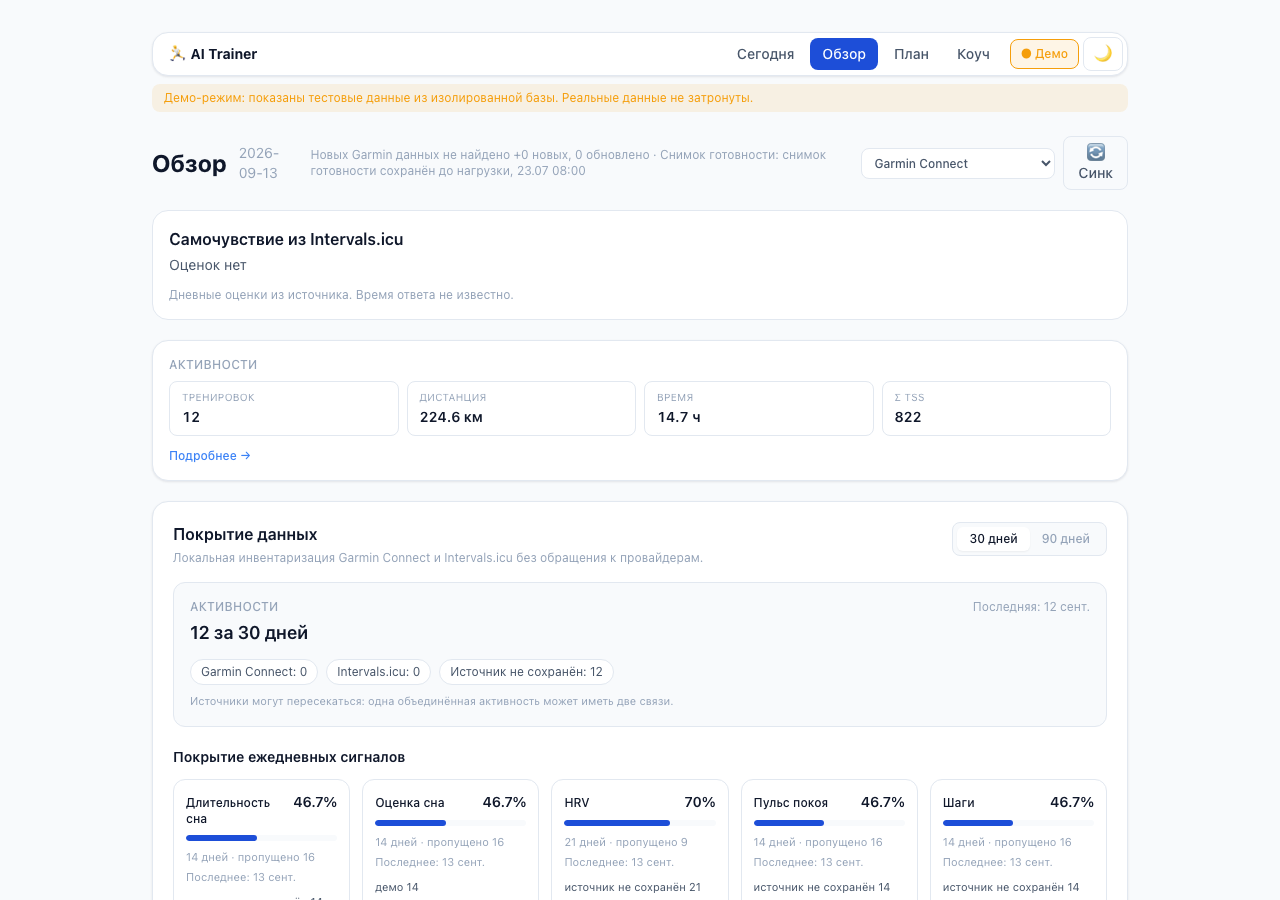
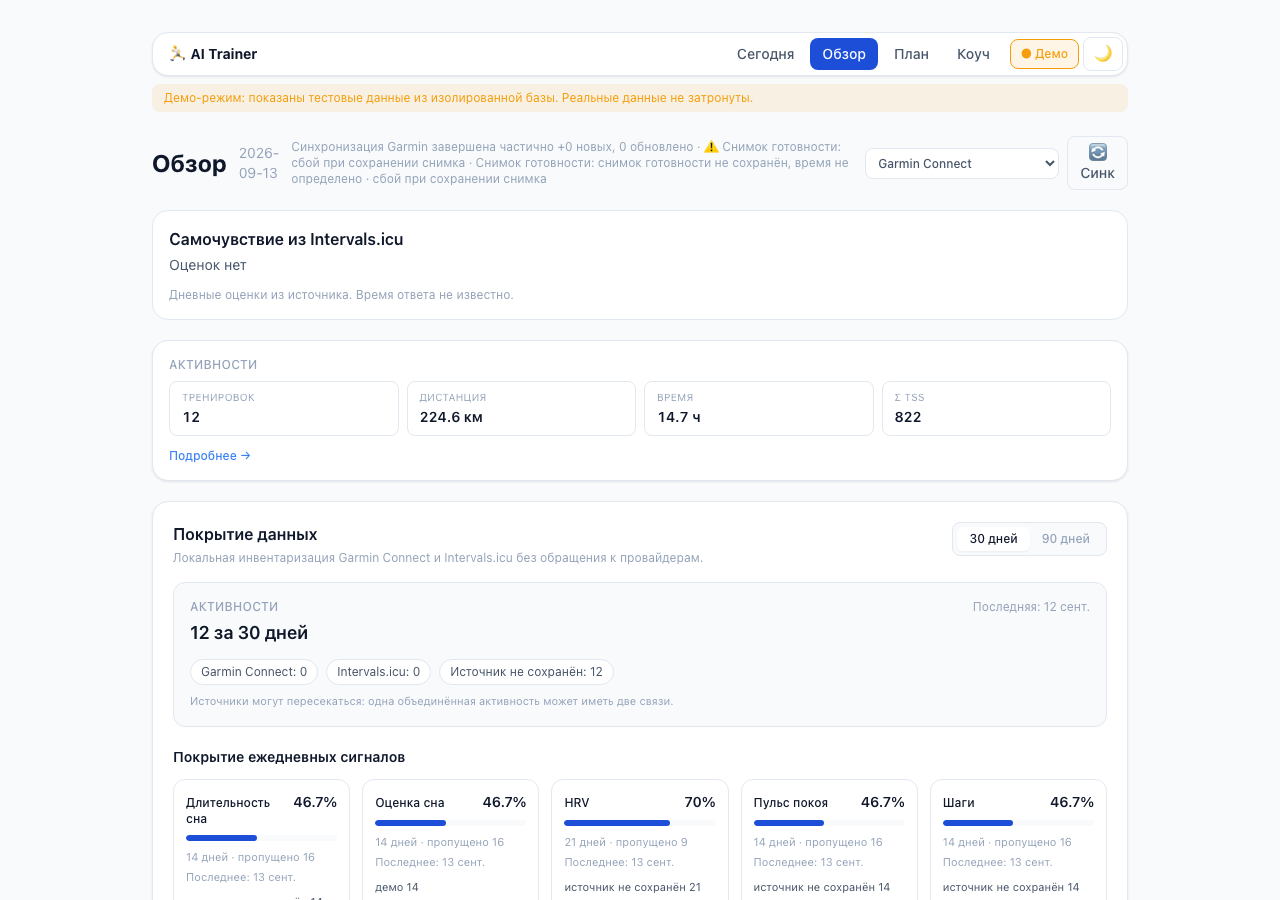
fix(web): keep capture-failure notices human-readable (#562 M6b)
Коррекция M6a (`a9f6790`) сделала отказ capture честным `partial` с
предупреждением, но `formatSyncNotices` печатал `result.notices` как есть,
поэтому в UI утекал машинный код: `⚠ Recovery snapshot capture:
snapshot_capture_failed`. Это нарушало инвариант M5/M6b «в UI нет машинных
кодов» — дефект представления, найденный браузерным сценарием.

- `SyncControl`: `formatSyncNotice` переводит известные коды capture через
  существующую карту `RECOVERY_CAPTURE_REASON_LABELS`; неизвестный код не
  подменяется и не прячется (fail-open). Заметки локализуются до обрезки
  списка и показа, остальные состояния и `partial`-контур не изменены.
- e2e: для `capture_failed` утверждается терминальный `partial` (видимый
  «частично» и `sync_state == result.sync_state == "partial"`), то есть D4
  проверяется на экране, а не только в фикстуре.
- Статический пин локализации: `test_m5_capture_failure_notice_is_not_a_machine_code`.
- Оба evidence-снимка пересняты: докоррекционные фикстуры несли `succeeded`,
  поэтому снимки показывали зелёное «завершена» с приклеенной строкой сбоя.
- План: находка, её закрытие, UI-решение и рекомендация для M6c (серверный
  warning остаётся англоязычным кодом — изменение домена, не UI-слайса).

Прогоны: модуль `10 passed`; полный e2e `12 passed`; статические UI-тесты
`9 passed`; приёмка #562 `68 passed, 10 skipped`; `ruff check .` чисто;
`npm run lint` чисто; `npm run build` — Compiled successfully, 16/16 страниц;
[…]

Changed region(s): [[0.2188, 0.1556, 0.6562, 0.2178], [0.8438, 0.1556, 0.875, 0.2178], [0.6875, 0.1556, 0.75, 0.1867]]

diff --git a/web/components/sync/SyncControl.tsx b/web/components/sync/SyncControl.tsx
@@ -233,6 +233,21 @@ const RECOVERY_CAPTURE_REASON_LABELS: Record<string, string> = {
   unparsable_observed_at: "нечитаемое время наблюдения",
 };
 
+// Серверное предупреждение о сбое capture приходит как
+// «⚠ Recovery snapshot capture: <код>». В UI показываем человеко-читаемую
+// причину; устойчивый код остаётся в payload и в notices контракта.
+const RECOVERY_CAPTURE_NOTICE_PREFIX = "⚠ Recovery snapshot capture:";
+const RECOVERY_CAPTURE_NOTICE_LABEL = "⚠ Снимок готовности:";
+
+function formatSyncNotice(notice: string): string {
+  const text = notice.trim();
+  if (!text.startsWith(RECOVERY_CAPTURE_NOTICE_PREFIX)) return text;
+  const code = text.slice(RECOVERY_CAPTURE_NOTICE_PREFIX.length).trim();
+  const label = RECOVERY_CAPTURE_REASON_LABELS[code];
+  // Неизвестный код не прячем и не выдумываем причину — оставляем текст как есть.
+  return label ? `${RECOVERY_CAPTURE_NOTICE_LABEL} ${label}` : text;
+}
+
 function formatRecoveryCaptureTime(value: RecoveryCapture["observed_at_local"]): string {
   if (typeof value !== "string" || value.trim().length === 0) {
     return RECOVERY_CAPTURE_UNKNOWN_TIME;
@@ -302,7 +317,10 @@ function formatSyncJob(job: SyncJobResponse, fallbackSource: SyncSource): string
 }
 
 function formatSyncNotices(notices: string[] | undefined): string {
-  const actionable = (notices ?? []).filter((notice) => notice.trim()).slice(0, 2);
+  const actionable = (notices ?? [])
+    .map(formatSyncNotice)
+    .filter((notice) => notice.length > 0)
+    .slice(0, 2);
   return actionable.length > 0 ? ` · ${actionable.join(" · ")}` : "";
 }
 

diff --git a/tests/smoke/test_m3_sync_ui_contract.py b/tests/smoke/test_m3_sync_ui_contract.py
@@ -101,6 +101,19 @@ def test_m5_capture_readback_hides_internal_identifiers() -> None:
         assert forbidden not in control
 
 
+def test_m5_capture_failure_notice_is_not_a_machine_code() -> None:
+    """D4-предупреждение приходит из API машинным кодом, в UI — человеко-читаемо."""
+    control = SYNC_CONTROL.read_text(encoding="utf-8")
+
+    assert "formatSyncNotice" in control
+    assert "RECOVERY_CAPTURE_NOTICE_PREFIX" in control
+    # Код переводится через уже существующую карту причин, а не подставляется в текст.
+    assert "RECOVERY_CAPTURE_REASON_LABELS[code]" in control
+    assert '`${RECOVERY_CAPTURE_NOTICE_LABEL} ${label}`' in control
+    # notices проходят через локализацию до обрезки списка и показа.
+    assert ".map(formatSyncNotice)" in control
+
+
 def test_m5_existing_sync_states_survive_the_readback() -> None:
     """running/failed/partial, счётчики, notices и responsive-контур не ломаются."""
     control = SYNC_CONTROL.read_text(encoding="utf-8")

diff --git a/tests/e2e/test_recovery_capture_readback.py b/tests/e2e/test_recovery_capture_readback.py
@@ -234,6 +234,11 @@ def test_recovery_capture_readback_is_visible_and_honest(web_stack, provider, st
         # Человеко-читаемый статус.
         assert STATUS_TEXTS[status] in text, text
 
+        # D4: отказ capture делает терминальный ответ частичным — UI обязан это показать.
+        if status == "capture_failed":
+            assert "частично" in text, text
+            assert terminal["sync_state"] == terminal["result"]["sync_state"] == "partial"
+
         # Время: локальное атлета, либо честный fallback при null.
         if capture["observed_at_local"]:
             assert "23.07" in text and "08:00" in text, text
